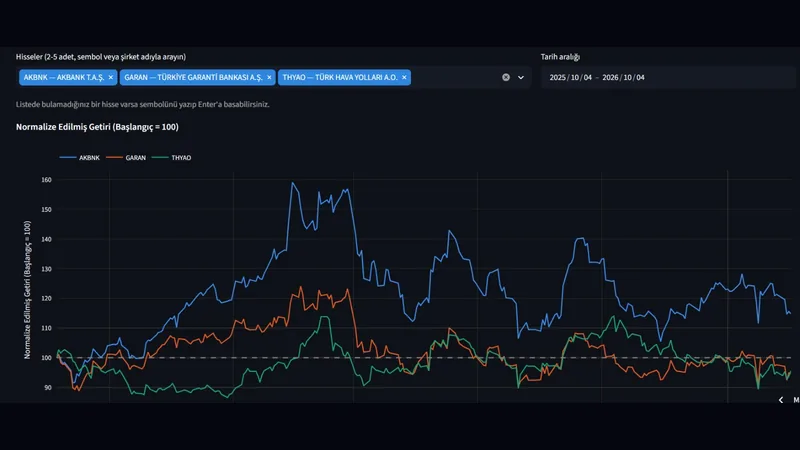
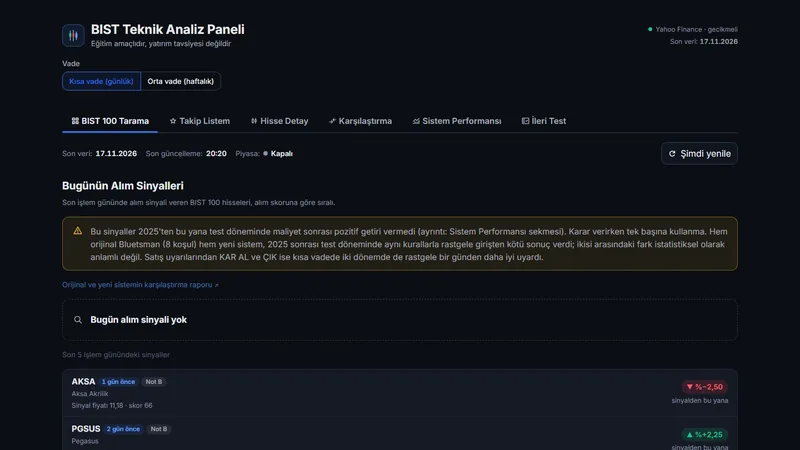
Update BIST project card to the current BIST 100 version
The live link already points to the latest Streamlit app; the card still
described the old BIST 30 dashboard. New title, description, highlight,
alt text, tags and screenshot. Slug and links unchanged.

diff --git a/src/data/projects.ts b/src/data/projects.ts
@@ -46,26 +46,26 @@ export const projects: Project[] = [
   },
   {
     slug: "bist30",
-    title: { en: "BIST 30 Technical Analysis", tr: "BIST 30 Teknik Analiz Paneli" },
+    title: { en: "BIST 100 Technical Analysis", tr: "BIST 100 Teknik Analiz Paneli" },
     category: { en: "Data", tr: "Veri" },
     description: {
-      en: "A Streamlit dashboard for BIST 30 stocks with indicators written from scratch and a look-ahead-free backtesting engine.",
-      tr: "BIST 30 hisseleri için sıfırdan yazılmış göstergeler ve ileriye bakış hatası olmayan bir backtest motoru içeren Streamlit paneli.",
+      en: "A Streamlit research and risk-tracking dashboard for BIST 100: two signal systems, sell warnings, a watchlist and a daily signal log, each measured with a look-ahead-free test on held-out data.",
+      tr: "BIST 100 için Streamlit ile yazılmış araştırma ve risk takip paneli: iki sinyal sistemi, satış uyarıları, takip listesi ve günlük sinyal kaydı; hepsi ileriye bakış hatası olmayan, ayrı tutulmuş verideki testle ölçülür.",
     },
     highlight: {
-      en: "Every indicator is implemented by hand — no TA library.",
-      tr: "Tüm göstergeler hazır kütüphane olmadan elle yazıldı.",
+      en: "Reports negative results too: on the 2025+ test set neither buy system beat random entries.",
+      tr: "Olumsuz sonucu da gösterir: 2025 sonrası testte iki alım sistemi de rastgele girişi geçemedi.",
     },
     image: {
       src: "/images/bist30.webp",
       alt: {
-        en: "BIST 30 technical analysis dashboard with price chart and indicators",
-        tr: "Fiyat grafiği ve göstergelerle BIST 30 teknik analiz paneli",
+        en: "BIST 100 screener showing today's buy signals, a test-result warning and recent signals",
+        tr: "Bugünün alım sinyalleri, test sonucu uyarısı ve son sinyallerle BIST 100 tarama ekranı",
       },
       width: 800,
       height: 450,
     },
-    tags: ["Python", "Streamlit", "pandas", "NumPy", "pytest"],
+    tags: ["Python", "Streamlit", "pandas", "NumPy", "pytest", "GitHub Actions"],
     links: [
       { kind: "live", href: "https://bist30-opsputfhf9b9i6kkjnyefc.streamlit.app/" },
       { kind: "github", href: "https://github.com/mehmet-yuksell/Bist30" },
